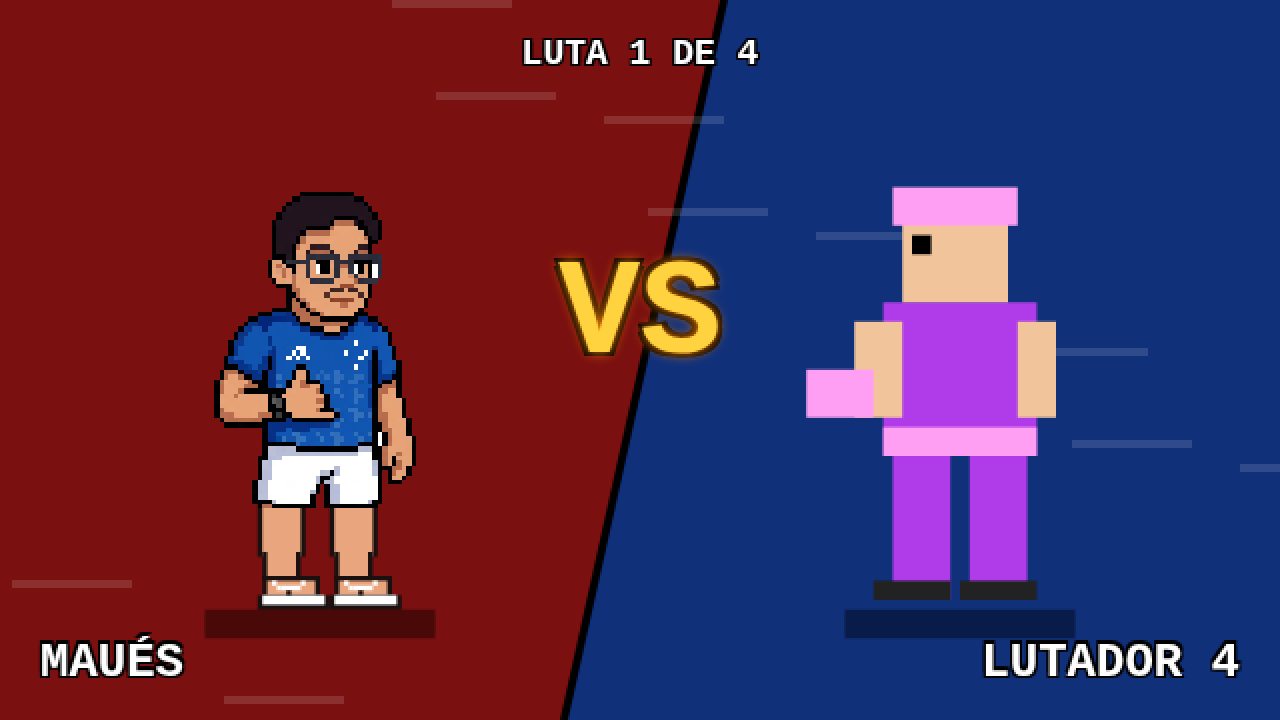
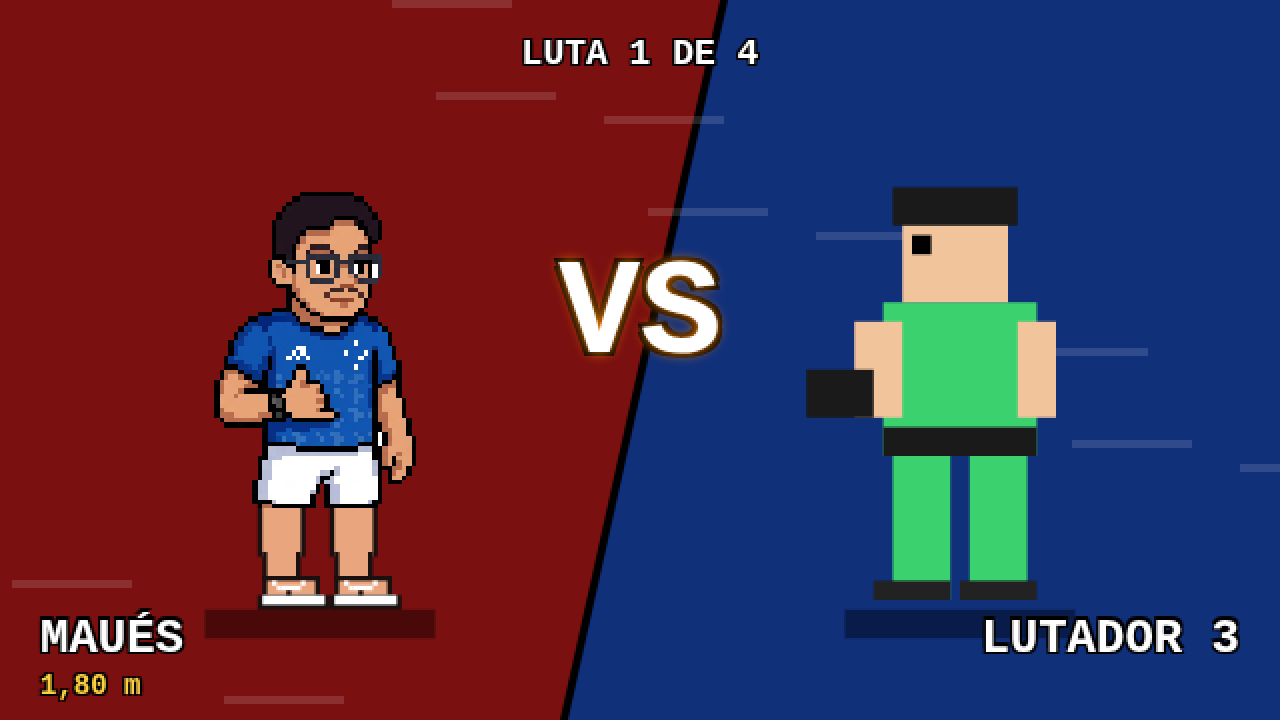
Publish build 202610211300.
Replace the game files from the latest zip, add the KO and height-select screenshots, and stamp script URLs with v=202610211300. .nojekyll stays in place.

diff --git a/js/fighter.js b/js/fighter.js
@@ -144,7 +144,7 @@ class Fighter {
   }
   overlap(opp, m) {
     if (!opp.vulnerable(m)) return false;
-    const b = m.box, F = this.facing, x1 = this.x + F * 4, x2 = this.x + F * (6 + b[0]);
+    const b = m.box, F = this.facing, x1 = this.x + F * 4, x2 = this.x + F * (6 + b[0] + (alturaPx(this.cfg) - 88) * 0.5);  // alcance extra p/ mais alto
     const [hx1, hy1, hx2, hy2] = opp.hurtbox();
     return Math.max(x1, x2) > hx1 && Math.min(x1, x2) < hx2 && this.y + b[2] > hy1 && this.y + b[1] < hy2;
   }
@@ -190,6 +190,11 @@ class Fighter {
     return st === "walk" ? "walk" : "idle";
   }
   draw(g) {
+    const c = this.cfg, hs = c.alturaArte ? alturaPx(c) / c.alturaArte : 1;
+    if (hs === 1) return this.drawBody(g);
+    g.save(); g.translate(Math.round(this.x), Math.round(this.y)); g.scale(hs, hs); g.translate(-Math.round(this.x), -Math.round(this.y)); this.drawBody(g); g.restore();
+  }
+  drawBody(g) {
     const x = Math.round(this.x), y = Math.round(this.y), s = this.cfg.scale || 1;
     let f = this.facing; const pose = this.pose();
     if (pose === "spin" && Math.floor(this.anim / 4) % 2) f = -f;
@@ -237,7 +242,8 @@ class Fighter {
     const up = I(["punch", "cpunch", "jpunch"].includes(pose) ? "punch" : ["upper", "cupper"].includes(pose) ? "upper" : ["block", "cblock"].includes(pose) ? "block" : "guard");
     if (!win || !legL || !legR || !up) return;
     g.save(); g.translate(x, y); g.scale(f * 0.5, 0.5); if (this.flash % 4 > 1) g.globalAlpha = 0.5;
-    if (pose === "down" || pose === "fall") { g.rotate(pose === "fall" ? -1.0 : -Math.PI / 2); g.drawImage(win, -win.width / 2 + 6, -win.height + 4); g.restore(); return; }
+    if (pose === "down") { g.rotate(-Math.PI / 2); g.drawImage(win, 0, -win.height / 2); g.restore(); return; }  // deitado: corpo inteiro apoiado no chão
+    if (pose === "fall") { g.rotate(-1.0); g.drawImage(win, -win.width / 2 + 6, -win.height + 4); g.restore(); return; }
     if (pose === "win") { g.drawImage(win, -win.width / 2, -win.height); g.restore(); return; }
     const M = this.cfg.partsMeta || { ox: -15, legX: [1, 12] }, LH = legL.height, ox = M.ox, heavy = this.m && this.m.heavy;
     let hipY = -LH + 2, rot = 0, dx = 0, sy = 1, rl = 0, rr = 0;
@@ -288,14 +294,16 @@ class Fighter {
       R("#ffffff", lx + 3, fy, 1, 1); R("#ffffff", lx + 4, fy + 1, 1, 1); R("#ffffff", lx + 9, fy, 1, 1); R("#ffffff", lx + 8, fy + 1, 1, 1); R("#ffffff", lx + 5, fy + 1, 3, 1); R(OL, lx + 6, fy + 2, 1, 1);
     };
     const hLeg = (hx, hy) => { g.save(); g.translate(hx, hy); g.rotate(-Math.PI / 2 + 0.12); leg(-5, -2, LEN + 4); g.restore(); };
-    if (pose === "down" || pose === "fall") { g.rotate(pose === "fall" ? -1.1 : -Math.PI / 2); g.drawImage(im, -ih / 2 + 10, ox - 10); g.restore(); return; }
+    // caído / KO: corpo + pernas + chinelos giram juntos (deitado no chão)
+    if (pose === "down") { g.translate(44, -iw / 2 + 2); g.rotate(-Math.PI / 2); pose = "lying"; }
+    else if (pose === "fall") { g.translate(30, -14); g.rotate(-1.1); pose = "lying"; }
     let ly = top + ih, rot = 0; const bob = pose === "idle" ? Math.floor(this.anim / 15) % 2 : 0, L = ox + legX[0], Rr = ox + legX[1];
     const lean = ["punch", "cpunch", "jpunch"].includes(pose), crouchP = ["crouch", "cpunch", "ckick", "cblock", "cupper"].includes(pose);
     const punchIm = lean && this.cfg.punchSprite ? Fighter.load(this.cfg.punchSprite) : null;
     if (lean) { g.translate(punchIm ? 3 : 8, 0); rot = punchIm ? 0.03 : 0.08; }
     if (pose === "hit") { g.translate(-5, 0); rot = -0.12; }
     if (pose === "upper" || pose === "win" || pose === "cupper") rot = -0.08;
-    if (crouchP) { ly += 12; leg(L - 2, ly, LEN - 12); if (pose === "ckick") hLeg(Rr + 5, ly + LEN - 6); else leg(Rr + 2, ly, LEN - 12); }
+    if (crouchP) { ly += 12; leg(L - 2, ly, LEN - 12); if (pose === "ckick") hLeg(Rr + 5, ly + LEN - 14); else leg(Rr + 2, ly, LEN - 12); }
     else if (["jump", "jpunch", "upper"].includes(pose)) { ly -= 4; leg(L, ly, LEN - 6); leg(Rr, ly, LEN - 2); }
     else if (pose === "jkick") { ly -= 4; leg(L, ly, LEN - 6); g.save(); g.translate(Rr + 5, ly + 2); g.rotate(-Math.PI / 2 + 0.6); leg(-5, -2, LEN + 4); g.restore(); }
     else if (pose === "kick" || pose === "spin") { leg(L - 4, ly, LEN); rot = -0.18; hLeg(Rr + 5, ly + 2); }

diff --git a/js/game.js b/js/game.js
@@ -112,7 +112,8 @@ function select() {
     txt(c.name, x, 92, 9, pi ? "#3b9bff" : "#ff3b3b", al);
     [["VEL", c.stats.speed], ["FOR", c.stats.power], ["VID", c.stats.health]].forEach(([l, v], j) => { const bx = al === "left" ? x + 20 : x - 70, by = 101 + j * 7;
       txt(l, al === "left" ? x : x - 74, by, 6, "#ccc", al === "left" ? "left" : "right"); g.fillStyle = "#333"; g.fillRect(bx, by - 2, 50, 4); g.fillStyle = c.accent; g.fillRect(bx, by - 2, v * 5, 4); });
-    if (game.ready[pi]) txt("PRONTO!", x, 128, 7, "#7f7", al); };
+    if (c.alturaReal) txt("ALT " + alturaTxt(c), x, 122, 6, "#ffd23f", al);
+    if (game.ready[pi]) txt("PRONTO!", x, 130, 7, "#7f7", al); };
   info(0, 10, "left");
   if (game.mode === "versus" || cpuPick) info(1, W - 10, "right");
   else if (free) { txt("LUTA LIVRE: depois escolha", W - 10, 96, 6, "#ccc", "right"); txt("O ADVERSÁRIO (CPU)", W - 10, 106, 8, "#3b9bff", "right"); txt("Dificuldade: " + DIFFS[game.diff].n, W - 10, 118, 6, "#8cf", "right"); }
@@ -167,7 +168,8 @@ function vs() {
   g.fillStyle = "#10307a"; g.beginPath(); g.moveTo(W, 0); g.lineTo(W / 2 + 22, 0); g.lineTo(W / 2 - 18, H); g.lineTo(W, H); g.fill();
   for (let i = 0; i < 12; i++) { g.fillStyle = "#fff2"; g.fillRect(((i * 53 + t * 6) % (W + 40)) - 40, (i * 29) % H, 30, 2); }
   portrait(game.sel[0], -60 + sl * 140, 150, 2.4, "idle", 1); portrait(game.sel[1], W + 60 - sl * 140, 150, 2.4, "idle", -1);
-  txt(CHARACTERS[game.sel[0]].name.toUpperCase(), 10, 166, 12, "#fff", "left"); txt(CHARACTERS[game.sel[1]].name.toUpperCase(), W - 10, 166, 12, "#fff", "right");
+  txt(CHARACTERS[game.sel[0]].name.toUpperCase(), 10, 160, 12, "#fff", "left"); txt(CHARACTERS[game.sel[1]].name.toUpperCase(), W - 10, 160, 12, "#fff", "right");
+  txt(alturaTxt(CHARACTERS[game.sel[0]]), 10, 172, 7, "#ffd23f", "left"); txt(alturaTxt(CHARACTERS[game.sel[1]]), W - 10, 172, 7, "#ffd23f", "right");
   if (t > 20) txt("VS", W / 2, 80, 34 + Math.max(0, 10 - (t - 20)) * 3, game.frame % 6 < 3 ? "#ffd23f" : "#fff", "center", "#f80", 2);
   if (game.mode === "free") txt("LUTA LIVRE", W / 2, 14, 9, "#fff");
   if (game.mode === "arcade") { const boss = CHARACTERS[game.sel[1]].boss; txt(boss ? "LUTA FINAL: CHEFÃO!" : `LUTA ${game.ladderPos + 1} DE ${game.ladder.length}`, W / 2, 14, 9, boss ? "#f44" : "#fff"); }

diff --git a/js/characters.js b/js/characters.js
@@ -5,12 +5,16 @@
 // sprite: caminho da imagem (null = desenho procedural). spriteLegs: true se a imagem é só do tronco (o jogo desenha as pernas).
 // specials: nomes dos golpes especiais (os comandos são iguais para todos).
 // quote: frase de vitória. boss: true = Chefão (último da escada do Arcade; selecionável só no Versus). scale: tamanho do desenho.
+// ALTURA: alturaReal (m) -> altura em jogo (px de arte, pés até o topo da cabeça, sem cabelo/chapéu alto)
+// 1,80 m = 88 px; ±3 px a cada 5 cm; limite 80–96 px. alturaArte = altura do sprite em 1:1 (o jogo escala).
+function alturaPx(c) { return c.alturaReal ? Math.max(80, Math.min(96, Math.round(88 + (c.alturaReal - 1.80) / 0.05 * 3))) : 88; }
+function alturaTxt(c) { return c.alturaReal ? c.alturaReal.toFixed(2).replace(".", ",") + " m" : ""; }
 const CHARACTERS = [
-  { name: "Maués", color: "#1f4fc4", accent: "#ffd23f", stats: { speed: 6, power: 7, health: 6 },
+  { name: "Maués", alturaReal: 1.80, alturaArte: 88, color: "#1f4fc4", accent: "#ffd23f", stats: { speed: 6, power: 7, health: 6 },
     sprite: "assets/maues.png", spriteLegs: true, skin: "#e9a57e", legX: [9, 24], punchSprite: "assets/maues_punch.png", projectile: "chinelo",
     specials: { fireball: "CHINELADA", dp: "GANCHO DO MAUÉS", spin: "FURACÃO DE CHINELO", super: "SUPER CHINELADA" },
     quote: "Chinelo branco não perdoa ninguém!" },
-  { name: "João Pedro", color: "#4a5530", accent: "#3fa34d", stats: { speed: 4, power: 8, health: 9 }, sprite: null, parts: "assets/joao/", partsMeta: { ox: -21, legX: [8, 22] }, projectile: "granada",
+  { name: "João Pedro", alturaReal: 1.78, alturaArte: 77, color: "#4a5530", accent: "#3fa34d", stats: { speed: 4, power: 8, health: 9 }, sprite: null, parts: "assets/joao/", partsMeta: { ox: -21, legX: [8, 22] }, projectile: "granada",
     specials: { fireball: "GRANADA", dp: "GANCHO DE COMANDO", spin: "RAJADA DE COTURNO", super: "BOMBARDEIO TÁTICO" },
     quote: "Missão cumprida. Próximo da fila!" },
   { name: "Lutador 3", color: "#3bd16f", accent: "#1a1a1a", stats: { speed: 4, power: 9, health: 8 }, sprite: null,

diff --git a/index.html b/index.html
@@ -12,6 +12,6 @@ canvas{image-rendering:pixelated;image-rendering:crisp-edges;background:#000}
 <div id="wrap"><canvas id="c" width="640" height="360"></canvas></div>
 <div id="touch"><div><span class="tb" data-k="ArrowLeft">◀</span><span class="tb" data-k="ArrowUp">▲</span><span class="tb" data-k="ArrowDown">▼</span><span class="tb" data-k="ArrowRight">▶</span></div>
 <div><span class="tb" data-k="KeyU">SF</span><span class="tb" data-k="KeyI">SF+</span><span class="tb" data-k="KeyJ">CF</span><span class="tb" data-k="KeyK">CF+</span><span class="tb" data-k="KeyL">ESP</span><span class="tb" data-k="KeyO">SUP</span><span class="tb" data-k="Enter">OK</span></div></div>
-<script>window.BUILD="202610211215";</script><script src="js/characters.js?v=202610211215"></script><script src="js/stages.js?v=202610211215"></script><script src="js/audio.js?v=202610211215"></script><script src="js/input.js?v=202610211215"></script>
-<script src="js/fighter.js?v=202610211215"></script><script src="js/ai.js?v=202610211215"></script><script src="js/game.js?v=202610211215"></script>
+<script>window.BUILD="202610211300";</script><script src="js/characters.js?v=202610211300"></script><script src="js/stages.js?v=202610211300"></script><script src="js/audio.js?v=202610211300"></script><script src="js/input.js?v=202610211300"></script>
+<script src="js/fighter.js?v=202610211300"></script><script src="js/ai.js?v=202610211300"></script><script src="js/game.js?v=202610211300"></script>
 </body></html>

diff --git a/tools/normalizar.py b/tools/normalizar.py
@@ -1,6 +1,6 @@
 #!/usr/bin/env python3
 """Normalizador de sprites — GUERRA no P.C
-Uso:  python3 tools/normalizar.py ENTRADA.png assets/NOME.png [--altura 88] [--cores 24] [--topo-extra 0.25]
+Uso:  python3 tools/normalizar.py ENTRADA.png assets/NOME.png [--altura 1.80] [--cores 24] [--topo-extra 0.25]
   1. remove o fundo (branco/cor uniforme das bordas, por flood-fill)
   2. recorta no personagem
   3. detecta a grade de pixel-art (se a imagem veio ampliada) e reduz para 1 px = 1 pixel de arte
@@ -72,11 +72,13 @@ def contorno(im):
     return b.crop(b.getbbox())
 def main():
     ap=argparse.ArgumentParser(); ap.add_argument('entrada'); ap.add_argument('saida')
-    ap.add_argument('--altura',type=int,default=88); ap.add_argument('--cores',type=int,default=24)
+    ap.add_argument('--altura',type=float,default=1.80,help='altura REAL em metros (ex.: 1.78) ou em px se > 3. 1,80 m = 88 px, ±3 px a cada 5 cm, limite 80–96'); ap.add_argument('--cores',type=int,default=24)
     ap.add_argument('--topo-extra',type=float,default=0.25,help='fração da altura que cabelo/chapéu pode ultrapassar')
     ap.add_argument('--cabeca',type=int,default=0,help='(opcional) linha do topo da cabeça na imagem já recortada, ignorando cabelo/chapéu')
     ap.add_argument('--tolerancia',type=float,default=0.2,help='se a grade nativa der altura dentro de ±20%% do alvo, mantém 1:1 (pixels originais)')
     a=ap.parse_args()
+    if a.altura<=3: a.altura=max(80,min(96,round(88+(a.altura-1.80)/0.05*3)))
+    a.altura=int(a.altura)
     im=tira_fundo(Image.open(a.entrada)); G=grade(im); k=1
     if G: k=G[0]; im=nativo(im,*G)
     corpo=im.height-(round(a.cabeca/k) if a.cabeca else 0)       # pés -> topo da cabeça
@@ -87,5 +89,6 @@ def main():
     al=im.getchannel('A').point(lambda v:255 if v>=128 else 0)
     rgb=im.convert('RGB').quantize(colors=a.cores,method=Image.MEDIANCUT,dither=Image.NONE).convert('RGBA'); rgb.putalpha(al)
     out=contorno(rgb); out.save(a.saida)
+    print(f"alvo {a.altura} px. Em js/characters.js use alturaReal (m) e alturaArte: {out.size[1]}  (o jogo escala p/ o alvo)")
     print(f"ok {a.saida}: {out.size[0]}x{out.size[1]} px (grade detectada {k:.2f}px, escala {esc:.2f})")
 if __name__=='__main__': main()

diff --git a/tools/gerar_joao.py b/tools/gerar_joao.py
@@ -19,6 +19,18 @@ for y in range(34,HIP+2):
 for y in range(52,HIP+2):
     for x in range(0,12): p[x,y]=(0,0,0,0)
     for x in range(33,W): p[x,y]=(0,0,0,0)
+# preenche com camuflado o lugar onde estavam os braços originais (sem buracos no tronco)
+q=body.load()
+for y in range(31,HIP):
+    xs=[x for x in range(W) if q[x,y][3]]
+    if not xs: continue
+    L,R=10,34
+    for x in range(L,R+1):
+        if q[x,y][3]==0 or (x in(L,R)):
+            src=q[min(max(x+(4 if x<22 else -4),12),32),y]
+            q[x,y]=src if src[3] else q[22,y]
+    q[L,y]=OL; q[R,y]=OL
+    for x in list(range(0,L))+list(range(R+1,W)): q[x,y]=(0,0,0,0)
 def outline(im):
     a=im.load(); o=im.copy(); b=o.load()
     for y in range(im.height):
@@ -33,14 +45,15 @@ R90=lambda im:im.transpose(Image.ROTATE_90)    # aponta p/ direita? (topo->esque
 UPV=lambda im: im.transpose(Image.ROTATE_180).transpose(Image.FLIP_LEFT_RIGHT)   # antebraço apontando p/ cima (mão no topo)
 def pose(kind):
     c=canvas()
-    put(c,ba_up,0,31)
     put(c,body,0,0)
-    if kind in('guard','punch','upper'): put(c,UPV(ba_lo).crop((3,0,12,19)),27,24)   # punho de trás na frente do peito
-    if kind=='block': put(c,UPV(ba_lo).crop((3,0,12,19)),28,10)
-    if kind=='guard':  put(c,UPV(fa_lo),36,18)                         # punho na altura do queixo
+    # braço de trás: manga caindo do ombro + antebraço para a frente (na frente do tronco)
+    if kind=='block': put(c,ba_up,0,31); put(c,ba_lo.transpose(Image.ROTATE_90),10,33)
+    else: put(c,ba_up,0,31); put(c,ba_lo.transpose(Image.ROTATE_90),6,39)
+    put(c,body.crop((10,26,35,34)),10,26)   # ombros por cima das mangas
+    if kind=='guard':   put(c,fa_up,34,30); put(c,UPV(fa_lo),35,22)      # L: cotovelo baixo, punho no queixo
     elif kind=='punch': put(c,front.transpose(Image.ROTATE_270),35,30)  # braço esticado
     elif kind=='upper': put(c,UPV(front),33,1)                          # punho p/ cima
-    elif kind=='block': put(c,UPV(fa_lo),35,6)                          # antebraço protegendo o rosto
+    elif kind=='block': put(c,fa_up,34,30); put(c,UPV(fa_lo),35,10)     # antebraço protegendo o rosto
     return outline(c)
 import os; d='assets/joao/'
 for f in os.listdir(d): os.remove(d+f)

diff --git a/tools/molde.py b/tools/molde.py
@@ -30,9 +30,9 @@ K=10; big=up(m,K).convert('RGB'); g=ImageDraw.Draw(big)
 for x in range(0,big.width,K): g.line([x,0,x,big.height],fill=(232,232,240))
 for y in range(0,big.height,K): g.line([0,y,big.width,y],fill=(232,232,240))
 big=Image.composite(up(m,K),big,up(m.convert('L').point(lambda v:255 if v<250 else 0),K))  # grade só no fundo
-P=Image.new('RGB',(big.width+560,big.height+330),WH); P.paste(big,(60,80)); d=ImageDraw.Draw(P)
+P=Image.new('RGB',(big.width+560,big.height+480),WH); P.paste(big,(60,190)); d=ImageDraw.Draw(P)
 d.text((20,15),"MOLDE BASE — GUERRA no P.C   (1 quadrado = 1 pixel de arte)",fill=OL,font=fnt(24))
-red=(220,30,30); X0=60; Y0=80; gx=X0+big.width+20
+red=(220,30,30); X0=60; Y0=190; gx=X0+big.width+20
 def vg(y1,y2,txt,xx):
     d.line([xx,Y0+y1*K,xx,Y0+y2*K],fill=red,width=3)
     for yy in (y1,y2): d.line([xx-8,Y0+yy*K,xx+8,Y0+yy*K],fill=red,width=3)
@@ -41,6 +41,11 @@ vg(1,25,"cabeça: 24 px",gx); vg(25,66,"tronco+short: 41 px",gx); vg(66,88,"pern
 d.text((gx+305,Y0+40*K),"altura\ntotal:\n88 px",fill=red,font=fnt(24))
 d.line([X0+2*K,Y0-8,X0+43*K,Y0-8],fill=(30,90,220),width=3); d.text((X0+5*K,Y0-40),"ombros/braços: 41 px · cabeça: 23 px",fill=(30,90,220),font=fnt(20))
 yb=Y0+big.height+30; d.text((60,yb),"tamanho real 1x  e  2x:",fill=OL,font=fnt(20)); P.paste(m,(330,yb)); P.paste(up(m,2),(400,yb))
+for hpx,nome,col in ((80,'BAIXO ≤1,65 m = 80 px',(0,150,0)),(88,'MÉDIO 1,80 m = 88 px',(30,90,220)),(96,'ALTO ≥1,95 m = 96 px',(200,0,160))):
+    yy=Y0+(89-hpx)*K
+    for xx in range(X0-40,X0+big.width,14): d.line([xx,yy,xx+7,yy],fill=col,width=2)
+    d.text((X0+big.width+20 if hpx!=88 else X0+big.width+20,yy-22),nome,fill=col,font=fnt(18))
+d.text((20,Y0+big.height+210),"Pés SEMPRE na mesma linha de base. Altura = pés até o topo da cabeça (cabelo alto/chapéu não contam).",fill=OL,font=fnt(15))
 P.save('kit/molde_base.png')
 # comparação
 row=[('MOLDE',m.convert('RGBA')),('MAUÉS',maues()),('JOÃO PEDRO',Image.open('assets/joao/win.png').convert('RGBA'))]

diff --git a/README.md b/README.md
@@ -79,3 +79,13 @@ Molde, exemplos e prompt para o Gemini: veja `kit/LEIA-ME.txt`. O kit fixa o est
   - limpa a paleta e refaz o contorno de 1 px.
 - No `js/characters.js`, use `sprite: "assets/NOME.png", fullSprite: true`. O personagem é desenhado inteiro, e as poses vêm de inclinação e deslocamento.
 - `tools/molde.py` regenera as imagens do kit.
+
+## Altura dos personagens
+Em `js/characters.js` cada personagem tem `alturaReal` (m) e `alturaArte`, que é a altura do PNG em 1:1, dos pés até o topo da cabeça.
+- A altura em jogo é 1,80 m = 88 px, ±3 px a cada 5 cm, limitada entre 80 e 96 px (`alturaPx()`).
+- O jogo escala o sprite até esse alvo usando o vizinho mais próximo.
+- Mais alto ganha um alcance levemente maior.
+- A altura aparece na seleção e no VS.
+- Maués: 1,80 m, 88 px, em 1:1.
+- João Pedro: 1,78 m, 87 px; a arte de 77 px é escalada ×1,13.
+O `tools/normalizar.py` aceita `--altura 1.78` (em metros).
